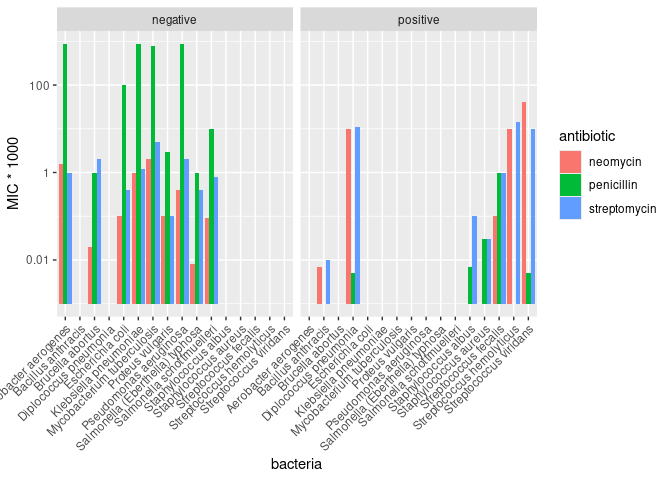
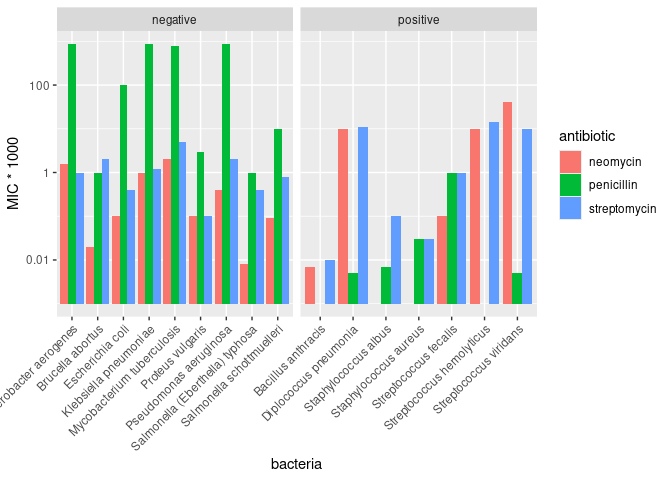
fixed for revision

Changed region(s): [[0.0, 0.0938, 0.8125, 0.9375]]

diff --git a/data-science-curriculum-build/data-science-curriculum-build/challenges/c05-antibiotics-assignment.md b/data-science-curriculum-build/data-science-curriculum-build/challenges/c05-antibiotics-assignment.md
@@ -194,7 +194,7 @@ is Gram positive or negative.
 long_df_antibiotics %>% 
   ggplot(aes(x = bacteria, y = MIC, fill = antibiotic)) +
   geom_col(position = "dodge") +
-  facet_wrap(~gram, drop = TRUE) + 
+  facet_wrap(~gram, scales = "free_x") + 
   scale_y_log10() + 
   theme(axis.text.x = element_text(angle = 45, hjust = 1))
 ```
@@ -206,7 +206,7 @@ long_df_antibiotics %>%
 long_df_antibiotics %>% 
   ggplot(aes(x = bacteria, y = MIC *1000, fill = antibiotic)) + 
   geom_col(position = "dodge") +
-  facet_wrap(~gram, , drop = TRUE) +
+  facet_wrap(~gram, scales = "free_x") +
   scale_y_log10(labels = \(x) x /1000) + 
   theme(axis.text.x = element_text(angle = 45, hjust = 1))
 ```
@@ -224,15 +224,12 @@ Note that your visual must be *qualitatively different* from *all* of
 your other visuals.
 
 ``` r
-# WRITE YOUR CODE HERE
-
-# On an adjusted log scale to that values don't appear negative
 long_df_antibiotics %>% 
-  ggplot(aes(x = bacteria, y = MIC * 1000, color = antibiotic, shape = factor(gram == "positive"))) +
+  ggplot(aes(x = bacteria, y = MIC, color = antibiotic, shape = factor(gram == "positive"))) +
   geom_point() +
-  scale_y_log10(labels = function(x) x / 1000) +
+  scale_y_log10() +
   scale_shape_manual(values = c(16, 3)) +
-  geom_hline(yintercept = 0.1 * 1000, linetype = "dashed", color = "black") +
+  geom_hline(yintercept = 0.1, linetype = "dashed", color = "black") +
   labs(shape = "Gram") + 
   theme(axis.text.x = element_text(angle = 45, hjust = 1))
 ```
@@ -251,12 +248,12 @@ your other visuals.
 ``` r
 # WRITE YOUR CODE HERE
 long_df_antibiotics %>% 
-  ggplot(aes(x = antibiotic, y = MIC * 1000, color = gram)) + 
+  ggplot(aes(x = antibiotic, y = MIC, color = gram)) + 
   geom_jitter(height=0,
               width=.2,) +
-  scale_y_log10(labels = function(x) x / 1000) +
+  scale_y_log10() +
   scale_shape_manual(values = c(16, 3)) +
-  geom_hline(yintercept = 0.1 * 1000, linetype = "dashed", color = "black") +
+  geom_hline(yintercept = 0.1, linetype = "dashed", color = "black") +
   theme(axis.text.x = element_text(angle = 45, hjust = 1))
 ```
 
@@ -272,7 +269,20 @@ Note that your visual must be *qualitatively different* from *all* of
 your other visuals.
 
 ``` r
-# WRITE YOUR CODE HERE
+long_df_antibiotics %>% 
+  ggplot(aes(x = antibiotic, y = MIC, fill = gram)) + 
+  geom_col(position = "dodge") +
+  geom_hline(yintercept = 0.1, linetype = "dashed", color = "black") +
+  facet_wrap(~bacteria) +
+  scale_y_log10()+ 
+ theme(axis.text.x = element_text(angle = 45, hjust = 1),
+        strip.text = element_text(size = 7))
+```
+
+![](c05-antibiotics-assignment_files/figure-gfm/q1.4-1.png)<!-- -->
+
+``` r
+# On an adjusted log scale to that values don't appear negative
 long_df_antibiotics %>% 
   ggplot(aes(x = antibiotic, y = MIC *1000, fill = gram)) + 
   geom_col(position = "dodge") +
@@ -283,7 +293,7 @@ long_df_antibiotics %>%
         strip.text = element_text(size = 7))
 ```
 
-![](c05-antibiotics-assignment_files/figure-gfm/q1.4-1.png)<!-- -->
+![](c05-antibiotics-assignment_files/figure-gfm/q1.4-2.png)<!-- -->
 
 #### Visual 5 (Some variables)
 
@@ -295,13 +305,15 @@ Note that your visual must be *qualitatively different* from *all* of
 your other visuals.
 
 ``` r
-# WRITE YOUR CODE HERE
-long_df_antibiotics %>% 
-  ggplot(aes(x = bacteria, y = MIC * 1000, color = gram)) + 
+df_antibiotics %>%
+  ggplot(aes(x = streptomycin, y = penicillin, color = gram)) + 
   geom_point() +
-  scale_y_log10(labels = function(x) x / 1000) +
+  scale_x_log10() +
+  scale_y_log10() +
   scale_shape_manual(values = c(16, 3)) +
-  geom_hline(yintercept = 0.1 * 1000, linetype = "dashed", color = "black") +
+  geom_hline(yintercept = 0.1, linetype = "dashed", color = "black") +
+  geom_text_repel(aes(label = bacteria), size = 3, box.padding = 0.5, point.padding = 0.5) + 
+  labs(x = "Streptomycin", y = "Penicillin") +
   theme(axis.text.x = element_text(angle = 45, hjust = 1))
 ```
 
@@ -339,7 +351,7 @@ response here) - Why? - (Write your response here)
   the acceptable range of 0.1.
 
 - Neomycin is the most effective of the antibiotics as it below the MIC
-  threshold for 8 bacteria’s while penicillin has 6 and streptomycin
+  threshold for 9 bacteria’s while penicillin has 6 and streptomycin
   does 4.
 
 - Visual 3 were the most effective at making these observations.
@@ -350,6 +362,16 @@ response here) - Why? - (Write your response here)
 
   - Visual 3 groups together the different antibiotics, which makes it
     easier to track trends happening between them.
+
+  ``` r
+  df_antibiotics %>% count(neomycin <= 0.1)
+  ```
+
+      ## # A tibble: 2 × 2
+      ##   `neomycin <= 0.1`     n
+      ##   <lgl>             <int>
+      ## 1 FALSE                 7
+      ## 2 TRUE                  9
 
 #### Guiding Question 2
 
@@ -382,6 +404,14 @@ response here) - Why? - (Write your response here)
     it on a closer level. Since we just need to compare a few bacteria’s
     against each other, being able to isolate it while looking at the
     visual is important.
+
+- I recreated visual 5, and it is also highly effective at answering
+  this question
+
+  - Diplococcus pneumoniae, Streptococcus hemolyticus, and Streptococcus
+    viridans are grouped together in the right corner, because they have
+    very simialr values, while Streptococcus fecalis (which was renamed
+    is not near that group).
 
 # References
 
